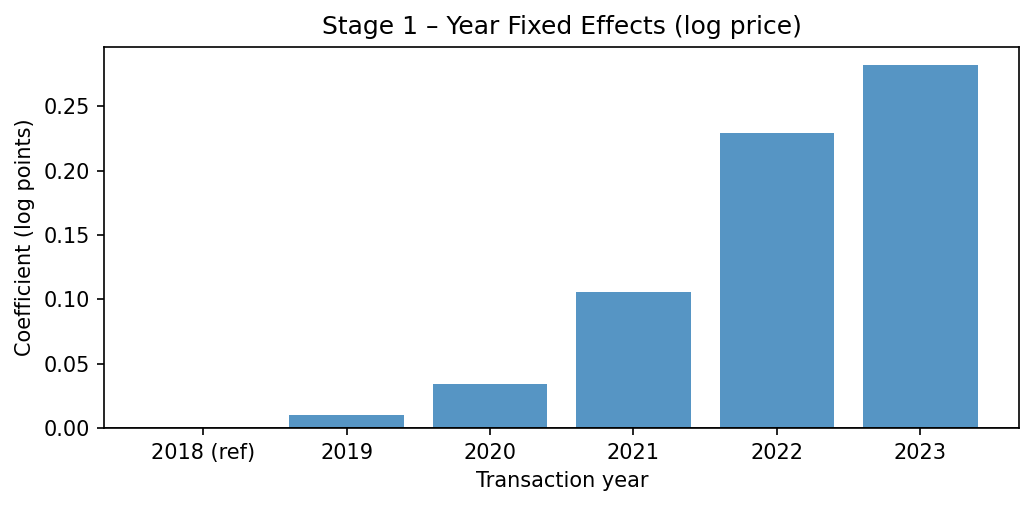
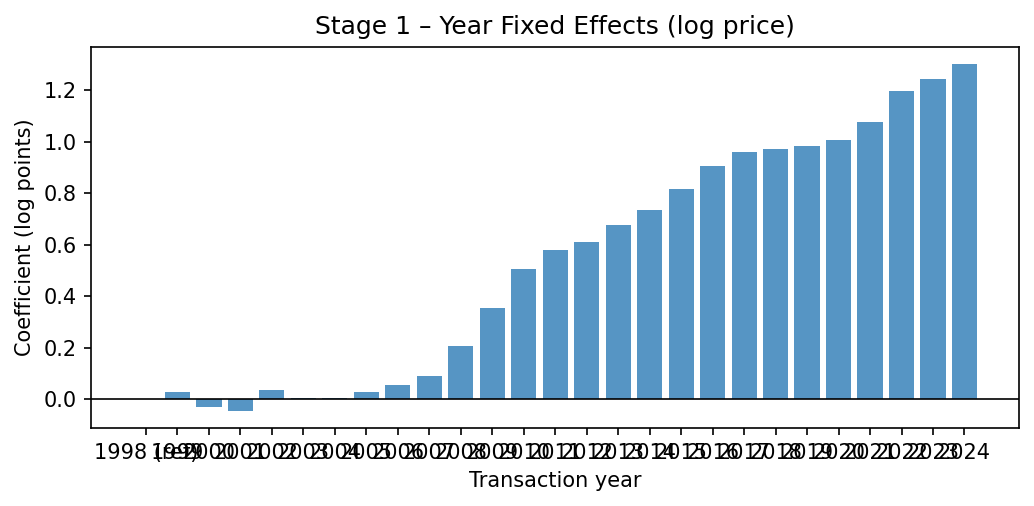
Expand price data from 2018–2023 to full 1998–2024 range
- Filter deal years to 1998–2024 (was 2018–2023)
- Shift reference year to 1998; add year dummies 1999–2024
- Update year-FE plot to show all 27 years
- Sample grows from 124k to 548k transactions across 38k gush blocks
- Within-R² improves to 0.60; urbanism coefficients now more significant

https://claude.ai/code/session_01EG4t3CwNacrVVqjMxQLMdv

diff --git a/sa_hedonic_twostage.py b/sa_hedonic_twostage.py
@@ -41,7 +41,7 @@ MAPS_DIR      = "data/processed/maps"
 os.makedirs(MAPS_DIR, exist_ok=True)
 
 MIN_TXN_PER_BLOCK = 5      # minimum transactions to keep a gush block
-REF_YEAR          = 2018   # reference year for year FEs
+REF_YEAR          = 1998   # reference year for year FEs
 
 CITY_CODE_MAP = {
     "100779": "Tel Aviv-Jaffa",
@@ -279,7 +279,7 @@ def load_transactions():
         return np.nan
 
     df["deal_year"] = df["DEALDATE"].apply(parse_year)
-    df = df[df["deal_year"].between(2018, 2023)].copy()
+    df = df[df["deal_year"].between(1998, 2024)].copy()
 
     # ── parse rooms ───────────────────────────────────────────────────────────
     df["rooms"] = pd.to_numeric(df["ASSETROOMNUM"], errors="coerce")
@@ -328,8 +328,8 @@ def load_transactions():
     df["POLYGON_ID"] = df["POLYGON_ID"].astype(str).str.strip()
     df = df[df["POLYGON_ID"].notna() & (df["POLYGON_ID"] != "nan")].copy()
 
-    # ── year dummies (2019–2023; 2018 = reference) ───────────────────────────
-    for yr in range(2019, 2024):
+    # ── year dummies (1999–2024; 1998 = reference) ───────────────────────────
+    for yr in range(1999, 2025):
         df[f"yr_{yr}"] = (df["deal_year"] == yr).astype(float)
 
     print(f"  clean rows:  {len(df):,}")
@@ -351,7 +351,7 @@ def estimate_stage1(df):
     """
     print("\nStage 1 – within-group FE estimation …")
 
-    YEAR_DUMMIES = [f"yr_{y}" for y in range(2019, 2024)]
+    YEAR_DUMMIES = [f"yr_{y}" for y in range(1999, 2025)]
     HOUSE_VARS   = [
         # dwelling characteristics
         "log_rooms",
@@ -593,8 +593,8 @@ def make_figures(merged, city_fe, stage1_info):
     b_w      = np.array(stage1_info["b_w"])
     hv       = stage1_info["house_vars"]
     coef_map = dict(zip(hv, b_w))
-    yr_labels = ["2018 (ref)", "2019", "2020", "2021", "2022", "2023"]
-    yr_coefs  = [0.0] + [coef_map.get(f"yr_{y}", 0.0) for y in range(2019, 2024)]
+    yr_labels = ["1998 (ref)"] + [str(y) for y in range(1999, 2025)]
+    yr_coefs  = [0.0] + [coef_map.get(f"yr_{y}", 0.0) for y in range(1999, 2025)]
     fig, ax = plt.subplots(figsize=(7, 3.5))
     ax.bar(yr_labels, yr_coefs, color="#2C7BB6", alpha=0.8)
     ax.axhline(0, color="k", lw=0.8)
